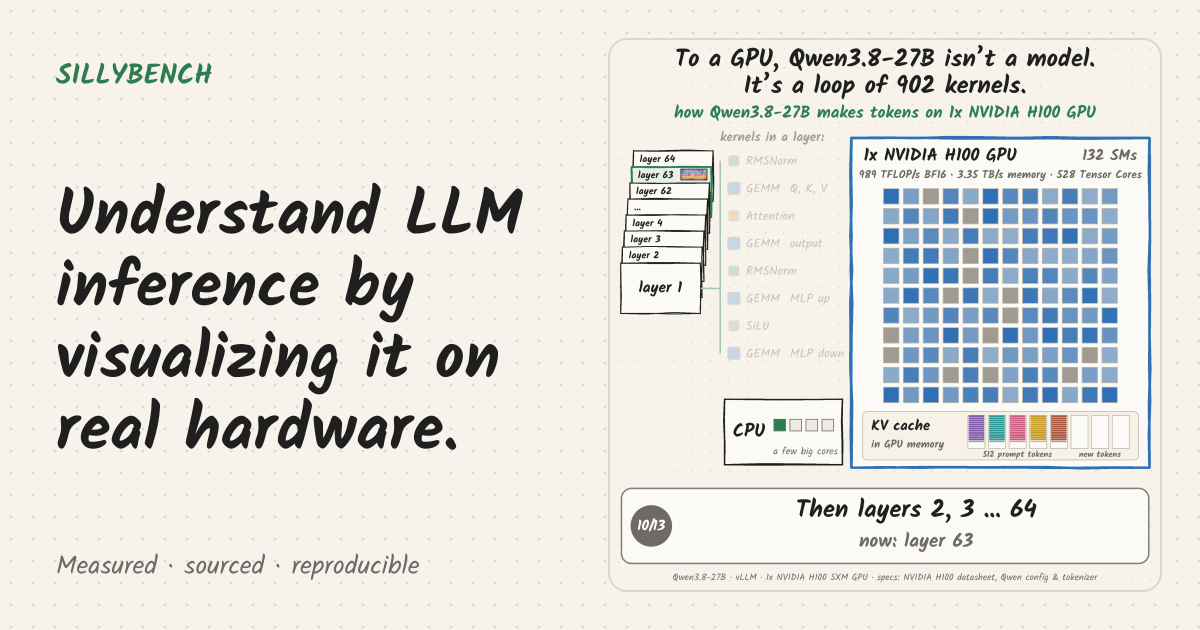
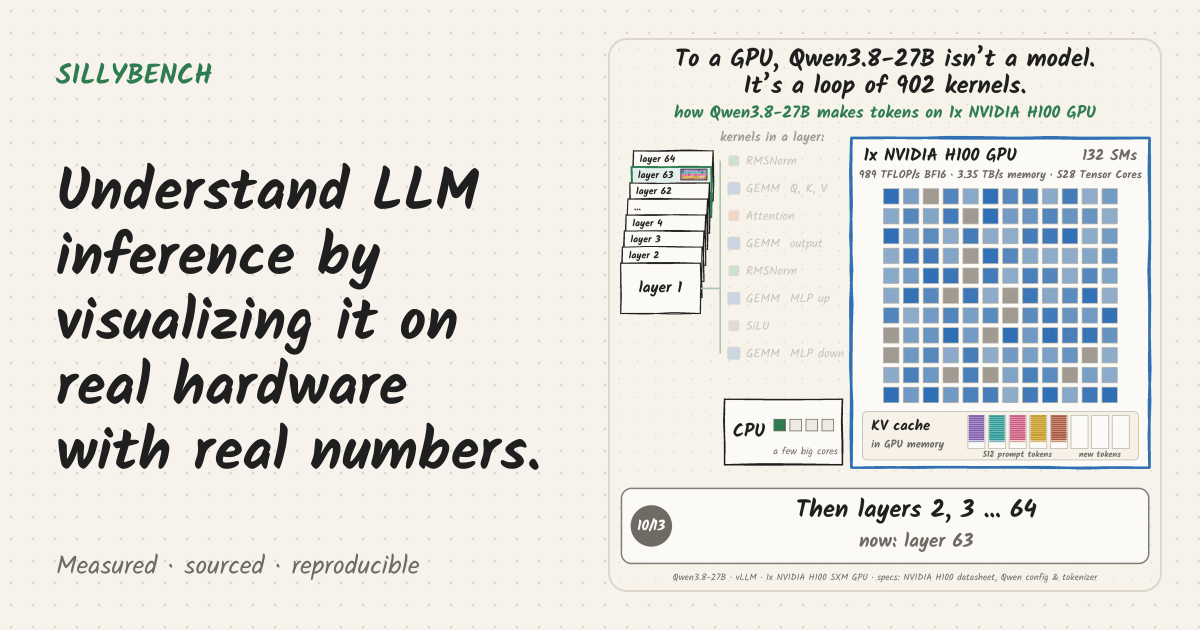
Simplify home: headline, series link and the animation only

Changed region(s): [[0.0308, 0.2714, 0.4625, 0.754]]

diff --git a/src/site.config.ts b/src/site.config.ts
@@ -3,7 +3,7 @@
 
 export const SITE = {
   name: 'SillyBench',
-  tagline: 'Understand LLM inference by visualizing it on real hardware.',
+  tagline: 'Understand LLM inference by visualizing it on real hardware with real numbers.',
   description:
     'LLM inference through the lens of a GPU: every number measured on real hardware, every claim sourced, every result reproducible from a public repo.',
   author: 'Tushar Garg',
